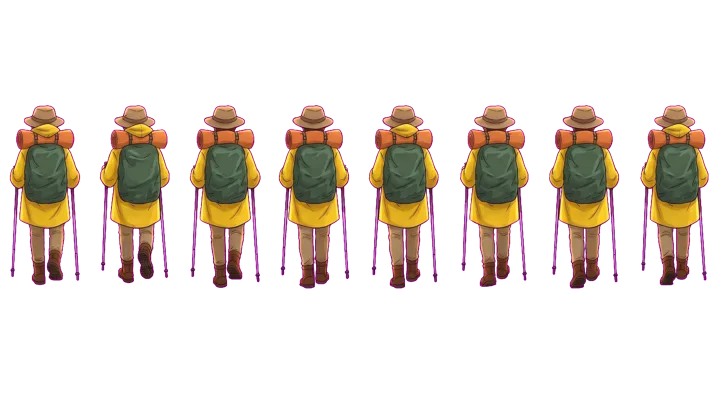
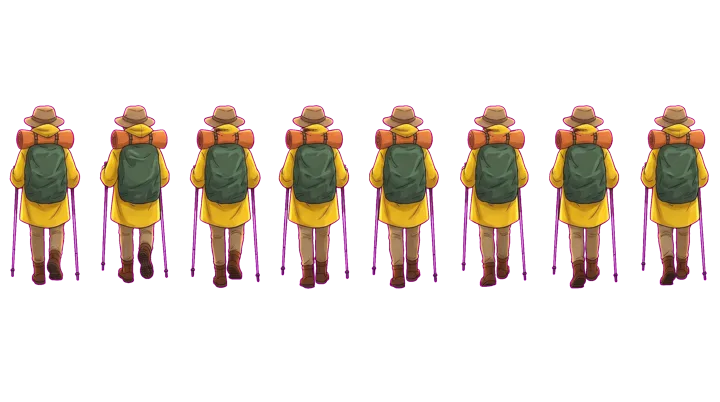
走路統一：每座山平路每秒 1 步、階梯每秒 1.15 階（以前步數跟著每座山速度變）；雨天走路圖領口帽子補齊不再閃爍；走路和爬階梯定案鎖住；版本 101

diff --git a/js/trail.js b/js/trail.js
@@ -144,8 +144,9 @@ const GAIT = {
   bendHold:1,                           // 彎度要連續超過門檻這麼多秒（真的在走路的時間）才換轉身圖
   stairIn:0.45, stairOut:0.25,          // 爬階梯傾身多大換階梯走路圖（換回來的門檻小一點，不會在階梯段頭尾來回換）
   upFull:0.35, upStride:0.75, upPace:0.8,   // 上坡（不是階梯）：坡度到 35% 算最陡，最陡時步子只剩 0.75、前進速度只剩 0.8（一步一步踩上去，腳不在地上滑）
+  walkHz:1.0,                           // 平路每秒走幾步：每座山都一樣（山友紀錄的速度從每秒 0.24 到 0.83 公尺都有，步數固定、步子大小跟著速度變，走路的樣子才不會一座山快、一座山像慢動作）
+  stairHz:1.15,                         // 爬階梯每秒踩幾階：每座山都一樣（但不會比平路走得快：慢的山照原本速度）
   stairPace:0.85,                       // 爬階梯：前進速度只剩這麼多（背大背包一階一階往上，約一秒一步多一點）
-  stairCad:1.35,                        // 階梯上一步踩一階：踏面很短（很陡）時步頻最多是平路的這麼多倍，再快就放慢前進（腳不會原地狂踩、在階梯上滑）
   tiredOut:4,                           // 累了以後體力要回到 tired + 4 % 才換回一般走路圖
   hold:1.5,                             // 換了一種走路圖以後，至少用這麼多秒才能再換（不會一閃一閃）
   fade:0.25                             // 換圖時兩張交叉淡換幾秒（不會一下子跳成另一張）
@@ -1480,11 +1481,17 @@ let BOT_L = '#8fd0e4', BOT_S = '#5398b8', MUG_L = '#e2e6e8', MUG_S = '#9aa4b0', 
 let PON_L = '#f6d968', PON_S = '#cba740', DOG_L = '#e9a55c', DOG_S = '#b9743f', CRM_L = '#fff3de', CRM_S = '#dcc3a0';
 const LEAFC = ['#8fbf5a', '#d9a441', '#c9703f', '#6fa85a'];
 
+// 平路一個步伐循環（兩步）走幾公尺：這座山平常的速度 ÷ 每秒步數（每座山步數一樣、步子大小不一樣）
+let vRef = 0;
+function strideOf(){ return vRef > 0 ? 2 * vRef / GAIT.walkHz : STRIDE; }
+// 階梯上前進速度倍率：每秒踩 stairHz 階 → 速度 = stairHz × 一階的長度，換成這座山平常速度的倍數；最多 1（不會比平路快）
+function stairK(stepL){ return vRef > 0 ? Math.min(1, GAIT.stairHz * stepL / vRef) : GAIT.stairPace; }
 function updHero(s, t, dt, dist, sp){
+  if (s.vBase > 0) vRef = s.vBase;
   if (sp > 0.05 && !s.rest && !s.sleep) hero.walkV += (sp - hero.walkV) * Math.min(1, dt * 0.5);   // 自己平常走路的速度（隊友剛出現時拿來當他的步調）
   const mv = (sp > 0.05 && !s.rest && !s.sleep) ? 1 : 0;
   hero.mv += (mv - hero.mv) * Math.min(1, dt * 8);
-  // 步伐：平路一個循環（兩步）走 STRIDE 公尺；階梯上一步踩一階，身體往前傾一點
+  // 步伐：平路每秒 walkHz 步（每座山一樣，一個循環走 strideOf() 公尺）；階梯上一步踩一階、每秒 stairHz 階，身體往前傾一點
   // 階梯上步伐相位跟畫面上的踏面對齊：第 4、8 格腳踩上下一階的踏面時，身體剛好開始升上那一階（heroGround）
   const si = Math.floor(dist / SEG), rise = sAt(si) === 1 ? eAt(si + 1) - eAt(si) : 0, nSt = rise > 0 ? stepsOf(rise) : 0;
   const sm = stairSteps(nSt), stepL = nSt ? SEG / (nSt * sm) : 0, dd = dist - hero.pd;
@@ -1494,7 +1501,7 @@ function updHero(s, t, dt, dist, sp){
   hero.up += (clamp(gr / GAIT.upFull, 0, 1) - hero.up) * Math.min(1, dt * 2);
   climbUpd(si, dt);
   if (Math.abs(dd) < 3 && hero.pd >= 0) {
-    let inc = dd / (nSt ? 2 * stepL : STRIDE * GAIT.stride[gait.lvl] * (1 - (1 - GAIT.upStride) * hero.up)) * TAU;
+    let inc = dd / (nSt ? 2 * stepL : strideOf() * GAIT.stride[gait.lvl] * (1 - (1 - GAIT.upStride) * hero.up)) * TAU;
     if (nSt && dd > 0) {
       // 這一步走到哪（0～1）→ 相位該在哪；差多少在接下來半步內慢慢補上（只往前補，腳不會倒著走），從一般走路圖換過來步伐接得上
       const u = (dist / SEG - si) * nSt * sm, e = u - Math.floor(u);
@@ -1502,7 +1509,7 @@ function updHero(s, t, dt, dist, sp){
       inc = Math.max(inc * 0.35, inc + err * Math.min(1, dd / stepL * 2));
     }
     hero.ph += inc;
-  } else hero.ph = dist / STRIDE * TAU;   // 一下子跳很遠（換山、補進度）就直接重算
+  } else hero.ph = dist / strideOf() * TAU;   // 一下子跳很遠（換山、補進度）就直接重算
   hero.pd = dist;
   hero.stair += ((nSt ? clamp(rise / SEG / 0.45, 0.4, 1) : 0) - hero.stair) * Math.min(1, dt * 3);
   // 背包：阻尼彈簧跟著步伐上下彈
@@ -1569,8 +1576,8 @@ function updGait(s, dt, dist){
     else if (gait.tH <= 0 && stam >= G.happy && hero.stair < 0.2 && Math.abs(hero.turn) < 0.2) { if (!(RMOT && RMOT.matches)) gaitStart('hiker_hop4', G.hopDur); gait.tH = rnd(G.hop); }
   }
   // 前進速度：做動作時停下來，累了慢慢走；長按快走照原本的速度。慢慢變，不會一下子停住
-  const cad = hero.stepL ? Math.min(1, G.stairCad * hero.stepL / (STRIDE / 2)) : 1;   // 很陡的階梯（踏面短）放慢，一步還是踩一階
-  const up = (1 - (1 - G.upPace) * hero.up) * (1 - (1 - G.stairPace) * hero.stair);   // 上坡越陡走越慢；爬階梯更慢
+  const cad = hero.stepL ? stairK(hero.stepL) : 1;   // 階梯：每秒踩 stairHz 階（每座山一樣），一步踩一階
+  const up = 1 - (1 - G.upPace) * hero.up;   // 上坡越陡走越慢
   const tg = gait.act ? 0 : (s.boost ? 1 : G.pace[lvl]) * cad * up;
   gait.pace += (tg - gait.pace) * Math.min(1, dt * 6);
   if (gait.k < 1) gait.k = Math.min(1, gait.k + dt / G.fade);
@@ -1592,7 +1599,7 @@ function gaitMode(dt, dist, stam){
 }
 S.pace = function(){ return gait.pace; };
 // 測試用：這座山整條路因為上坡和爬階梯變慢，畫面開著時要多花幾 %（不算階梯、不算慢慢變的過渡）
-S.upStat = function(){ let a = 0, b = 0; for (let i = 0; i < N; i++) { const st = sAt(i) === 1 && eAt(i + 1) > eAt(i), gr = st ? 0 : (eAt(i + 3) - eAt(i)) / (3 * SEG), u = clamp(gr / GAIT.upFull, 0, 1); a += 1; b += 1 / ((1 - (1 - GAIT.upPace) * u) * (st ? GAIT.stairPace : 1)); } return Math.round((b / a - 1) * 1000) / 10; };
+S.upStat = function(){ let a = 0, b = 0; for (let i = 0; i < N; i++) { const rise = eAt(i + 1) - eAt(i), st = sAt(i) === 1 && rise > 0, gr = st ? 0 : (eAt(i + 3) - eAt(i)) / (3 * SEG), u = clamp(gr / GAIT.upFull, 0, 1), ns = st ? stepsOf(rise) : 0; a += 1; b += 1 / ((1 - (1 - GAIT.upPace) * u) * (st ? stairK(SEG / (ns * stairSteps(ns))) : 1)); } return Math.round((b / a - 1) * 1000) / 10; };
 S.gait = function(){ return { g:gait, stair:hero.stair, turn:hero.turn, mv:hero.mv, ph:hero.ph, stepL:hero.stepL }; };   // 測試掛鉤：看現在的步態、把計時器歸零來測試各種動作
 // 現在要用哪一張走路圖、要不要鏡射（寫在 gait.sid、gait.sf；每格都會跑，不產生新的陣列、字串）
 const RAIN_OF = { hiker_stairs16:'hiker_rain_stairs16', hiker_stairs8:'hiker_rain_stairs8', hiker_tired_walk8:'hiker_rain_tired_walk8' };   // 下雨天：有穿雨衣的版本就用
@@ -1814,7 +1821,7 @@ function drawMate(mt, j, f, t, fade){
   const sv = { ph:hero.ph, mv:hero.mv, lean:hero.lean, py:hero.py, mga:hero.mga };
   const cols = [JK_L, JK_S, BAG_L, BAG_S, LID_L, LID_S, HAT_L, HAT_S];
   JK_L = '#5f9fd6'; JK_S = '#3c6f9e'; BAG_L = '#9ac46a'; BAG_S = '#6a9446'; LID_L = '#86b45a'; LID_S = '#5c8a3e'; HAT_L = '#f2c94c'; HAT_S = '#c49a34';
-  hero.ph = mt.d / STRIDE * TAU + 1.3; hero.mv = mt.rest ? 0 : 1; hero.lean = mt.rest ? 0 : 0.45; hero.py = 0; hero.mga = Math.sin(t * 2) * 0.3;
+  hero.ph = mt.d / strideOf() * TAU + 1.3; hero.mv = mt.rest ? 0 : 1; hero.lean = mt.rest ? 0 : 0.45; hero.py = 0; hero.mga = Math.sin(t * 2) * 0.3;
   ctx.globalAlpha = fade;
   footShadow(X, Y, u, 86, 34, SCALE.hero * 100, 1, j);
   ctx.save(); ctx.translate(X, Y); ctx.scale(u, u);

diff --git a/index.html b/index.html
@@ -9,8 +9,8 @@
 <link rel="apple-touch-icon" href="icons/shiba-180.png">
 <link rel="icon" href="icons/shiba-192.png">
 <title>山行小日子</title>
-<link rel="stylesheet" href="css/fonts.css?v=100">
-<link rel="stylesheet" href="css/style.css?v=100">
+<link rel="stylesheet" href="css/fonts.css?v=101">
+<link rel="stylesheet" href="css/style.css?v=101">
 </head>
 <body>
 <div id="app">
@@ -89,20 +89,20 @@
   <input type="file" id="upFile" accept="image/*" hidden>
 </div>
 
-<script src="js/data.js?v=100"></script>
-<script src="js/motion.js?v=100"></script>
-<script src="js/audio.js?v=100"></script>
-<script src="js/clay.js?v=100"></script>
-<script src="js/art.js?v=100"></script>
-<script src="js/gl2d.js?v=100"></script>
-<script src="js/look.js?v=100"></script>
-<script src="js/trail.js?v=100"></script>
-<script src="js/worldmap.js?v=100"></script>
-<script src="js/hud.js?v=100"></script>
-<script src="js/game.js?v=100"></script>
-<script src="js/config.js?v=100"></script>
-<script src="js/plaza.js?v=100"></script>
-<script src="js/social.js?v=100"></script>
+<script src="js/data.js?v=101"></script>
+<script src="js/motion.js?v=101"></script>
+<script src="js/audio.js?v=101"></script>
+<script src="js/clay.js?v=101"></script>
+<script src="js/art.js?v=101"></script>
+<script src="js/gl2d.js?v=101"></script>
+<script src="js/look.js?v=101"></script>
+<script src="js/trail.js?v=101"></script>
+<script src="js/worldmap.js?v=101"></script>
+<script src="js/hud.js?v=101"></script>
+<script src="js/game.js?v=101"></script>
+<script src="js/config.js?v=101"></script>
+<script src="js/plaza.js?v=101"></script>
+<script src="js/social.js?v=101"></script>
 <script>if ("serviceWorker" in navigator) addEventListener("load", () => navigator.serviceWorker.register("sw.js").catch(() => {}));</script>
 </body>
 </html>

diff --git a/js/game.js b/js/game.js
@@ -1432,7 +1432,7 @@
     if (lineT <= 0 && moving && !paused) { lineT = 18 + Math.random()*16;
       say(pick(wx.time === 'night' ? SX.LINES.night : wx.kind === 'snow' ? SX.LINES.snow : wx.kind === 'rain' ? SX.LINES.rain : wx.kind === 'fog' ? SX.LINES.fog : SX.LINES.walk)); }
     wxT += dt; if (wxT > 60) { wxT = 0; if (!wxOverride) { const n = wxHere(); if (n.kind !== wx.kind || n.time !== wx.time) { wx = n; moodNow(); } } }
-    SC.render({ dist:st.dist, total:M.dist, t, dt, speed: dt > 0 ? Math.min(6, d / dt) : 0, boost, rest:!!st.rest, sleep:!!st.sleep, wx, pet:SV.pet || null, frac:st.dist / M.dist, stam:st.stam, ft:ftNow, fps:fpsNow });   // ft、fps：給自動畫質量真正每格花多久
+    SC.render({ dist:st.dist, total:M.dist, t, dt, speed: dt > 0 ? Math.min(6, d / dt) : 0, vBase: baseSpeed(M) * devX(), boost, rest:!!st.rest, sleep:!!st.sleep, wx, pet:SV.pet || null, frac:st.dist / M.dist, stam:st.stam, ft:ftNow, fps:fpsNow });   // ft、fps：給自動畫質量真正每格花多久
     if (st.away && !paused && !arrived) showAway();   // 離開時的日記：畫面畫好了才打開（補拍照片要用到畫面）
     updTag();
     hudT -= dt; if (hudT <= 0) { hudT = 0.2; hudTick(); }

diff --git a/sw.js b/sw.js
@@ -2,7 +2,7 @@
 // 三個快取：CACHE 放程式和頁面，每次改版換新名字；ART_CACHE 放美術圖和聲音，名字永遠不變，改版也不清掉，
 // 玩家只會下載有換過的圖和新圖（美術圖網址帶 ?v=檔案指紋，圖換了網址才會變）。
 // FONT_CACHE 放手寫字型（fonts/ 底下，檔名帶內容指紋，由 tools/fonts.js 產生），一樣永遠不變名字，改版時只補新檔、清掉沒用的舊檔。
-const CACHE = 'shanxing-v100';
+const CACHE = 'shanxing-v101';
 const ART_CACHE = 'shanxing-art';
 const FONT_CACHE = 'shanxing-fonts';
 const isArt = u => /\/(audio|art)\//.test(u.pathname) && !/manifest\.json$/.test(u.pathname);
